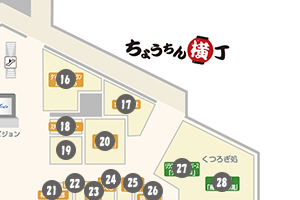
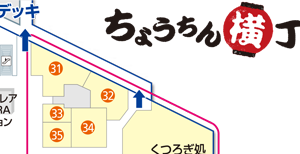
map画像差し替え

diff --git a/map/index.html b/map/index.html
@@ -24,82 +24,81 @@
 		<div class="mapList">
 			<div class="lst1">
 				<p>
-					1<a href="#">○○○○○○○○</a><br />
-					2<a href="#">○○○○○○○○</a><br />
-					3<a href="#">○○○○○○○○</a><br />
-					4<a href="#">○○○○○○○○</a><br />
-					5<a href="#">○○○○○○○○</a><br />
-					6<a href="#">○○○○○○○○</a><br />
-					7<a href="#">○○○○○○○○</a><br />
-					8<a href="#">○○○○○○○○</a><br />
-					9<a href="#">○○○○○○○○</a><br />
-					10<a href="#">○○○○○○○○</a><br />
-					11<a href="#">○○○○○○○○</a><br />
-					12<a href="#">○○○○○○○○</a><br />
-					13<a href="#">○○○○○○○○</a><br />
-					14<a href="#">○○○○○○○○</a><br />
-					15<a href="#">○○○○○○○○</a>
+					1<a href="#">クイーン・アリス&nbsp;アクア</a><br />
+					2<a href="#">ジュースステーション</a><br />
+					3<a href="#">アビエーターグリル</a><br />
+					4<a href="#">海上楼</a><br />
+					5<a href="#">回転寿司丸忠</a><br />
+					8<a href="#">ベーグル&amp;ベーグル</a><br />
+					9<a href="#">スープストック&nbsp;トウキョー</a><br />
+					10<a href="#">KITCHEN&nbsp;どんぶり</a><br />
+					11<a href="#">新打工房&nbsp;きしめん&nbsp;美濃味匠</a><br />
+					12<a href="#">極旨醤油ら〜めん&nbsp;一刻魅堂</a><br />
+					17<a href="#">UNIQLO</a><br />
+					18<a href="#">オージュドゥイ</a><br />
+					19<a href="#">SPECCHIO</a><br />
+                     20<a href="#">Tabio&nbsp;on&nbsp;the&nbsp;Ground</a><br />
+                     21<a href="#">MODECO</a>
 				</p>
 
 
 			</div>
 			<div class="lst2">
 				<p>
-					16<a href="#">○○○○○○○○</a><br />
-					17<a href="#">○○○○○○○○</a><br />
-					18<a href="#">○○○○○○○○</a><br />
-					19<a href="#">○○○○○○○○</a><br />
-					20<a href="#">○○○○○○○○</a><br />
-					21<a href="#">○○○○○○○○</a><br />
-					22<a href="#">○○○○○○○○</a><br />
-					23<a href="#">○○○○○○○○</a><br />
-					24<a href="#">○○○○○○○○</a><br />
-					25<a href="#">○○○○○○○○</a><br />
-					26<a href="#">○○○○○○○○</a><br />
-					27<a href="#">○○○○○○○○</a><br />
-					28<a href="#">○○○○○○○○</a><br />
+					31<a href="#">ダイニングレストラン&nbsp;かめりあ</a><br />
+					32<a href="#">まるは食堂</a><br />
+					33<a href="#">スターバックスコーヒー</a><br />
+					34<a href="#">沙羅餐</a><br />
+					35<a href="#">鈴波</a>
 				</p>
 			</div>
 			<div class="lst3">
 				<p>
-					29<a href="#">○○○○○○○○</a><br />
-					30<a href="#">○○○○○○○○</a><br />
-					31<a href="#">○○○○○○○○</a><br />
-					32<a href="#">○○○○○○○○</a><br />
-					33<a href="#">○○○○○○○○</a><br />
-					34<a href="#">○○○○○○○○</a><br />
-					35<a href="#">○○○○○○○○</a><br />
-					36<a href="#">○○○○○○○○</a><br />
-					37<a href="#">○○○○○○○○</a><br />
-					38<a href="#">○○○○○○○○</a><br />
-					39<a href="#">○○○○○○○○</a><br />
-					40<a href="#">○○○○○○○○</a><br />
-					41<a href="#">○○○○○○○○</a><br />
-					42<a href="#">○○○○○○○○</a><br />
-					43<a href="#">○○○○○○○○</a><br />
+                	     6<a href="#">みそかつ矢場とん</a><br />
+                      7<a href="#">石焼ビビンバ・冷麺&nbsp;トラジ</a><br />
+					13<a href="#">フレッシュネスバーガー</a><br />
+					14<a href="#">カフェ・ド・クリエプラス</a><br />
+					15<a href="#">caf&eacute;ゆとりの空間</a><br />
+					16<a href="#">セントレアオフィシャルショップ</a><br />
+					22<a href="#">SAC'S BAR Jean</a><br />
+					23<a href="#">IZONE NEW YORK</a><br />
+					24<a href="#">yb.Friend's</a><br />
+					25<a href="#">無印用品</a><br />
+                     26<a href="#">マライカ</a><br />
+					27<a href="#">Hello&nbsp;Kitty&nbsp;Japan</a><br />
+					28<a href="#">ドラスティック・ザ・バゲージ</a><br />
+					29<a href="#">アビステブティック</a><br />
+					30<a href="#">TSUTAYA</a>
 				</p>
 			</div>
 			<div class="lst4">
 				<p>
-					44<a href="#">○○○○○○○○</a><br />
-					45<a href="#">○○○○○○○○</a><br />
-					46<a href="#">○○○○○○○○</a><br />
-					47<a href="#">○○○○○○○○</a><br />
-					48<a href="#">○○○○○○○○</a><br />
-					49<a href="#">○○○○○○○○</a><br />
-					50<a href="#">○○○○○○○○</a><br />
-					51<a href="#">○○○○○○○○</a><br />
-					52<a href="#">○○○○○○○○</a><br />
-					53<a href="#">○○○○○○○○</a><br />
-					54<a href="#">○○○○○○○○</a><br />
-					55<a href="#">○○○○○○○○</a><br />
-					56<a href="#">○○○○○○○○</a><br />
-					57<a href="#">○○○○○○○○</a><br />
-					58<a href="#">○○○○○○○○</a><br />
-					59<a href="#">○○○○○○○○</a><br />
-					60<a href="#">○○○○○○○○</a><br />
-					61<a href="#">○○○○○○○○</a><br />
-				</p>
+					36<a href="#">えびせんべいの里</a><br />
+					37<a href="#">めいふつ&nbsp;天むす&nbsp;千寿</a><br />
+					38<a href="#">鶏三和</a><br />
+					39<a href="#">世界の山ちゃん</a><br />
+					40<a href="#">ヤマサちくわ</a><br />
+					41<a href="#">芋花恋</a><br />
+					42<a href="#">西条園抹茶カフェ</a><br />
+					43<a href="#">柿安柿次郎</a><br />
+					44<a href="#">季果旬菜の店あぐりす</a><br />
+					45<a href="#">綱元直売&nbsp;魚太郎</a><br />
+					46<a href="#">元祖モダン焼きの店&nbsp;ぼてや</a><br />
+					47<a href="#">満天</a><br />
+					48<a href="#">おかゆと麺の店粥餐庁</a><br />
+					49<a href="#">四代目鍵三&nbsp;宮きしめん</a><br />
+					50<a href="#">とんかつ和幸</a><br />
+					51<a href="#">まるや本店</a><br />
+					52<a href="#">	若鯱家</a><br />
+					53<a href="#">オリエンタルキッチン</a><br />
+				    54<a href="#">豆天狗</a><br />
+              	    55<a href="#">味仙</a><br />
+                     56<a href="#">とんこつらーめん麺達</a><br />
+                     57<a href="#">和の間</a><br />
+                     58<a href="#">吉田商店</a><br />
+                     59<a href="#">MONO</a><br />
+                     60<a href="#">Warakuya&nbsp;Okame&nbsp;日本館</a><br />
+                </p>
 			</div>
 		</div>
 	</div>
